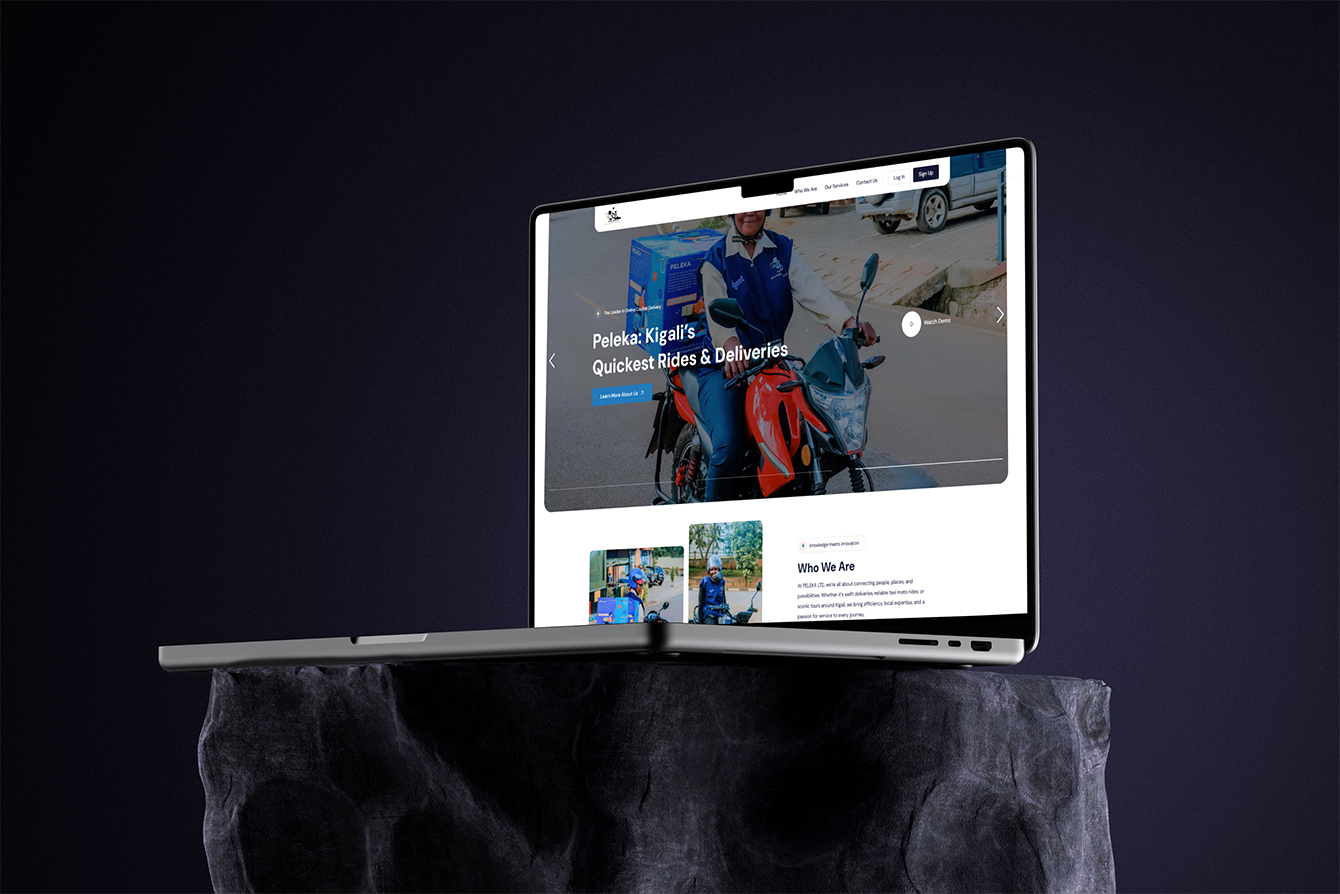
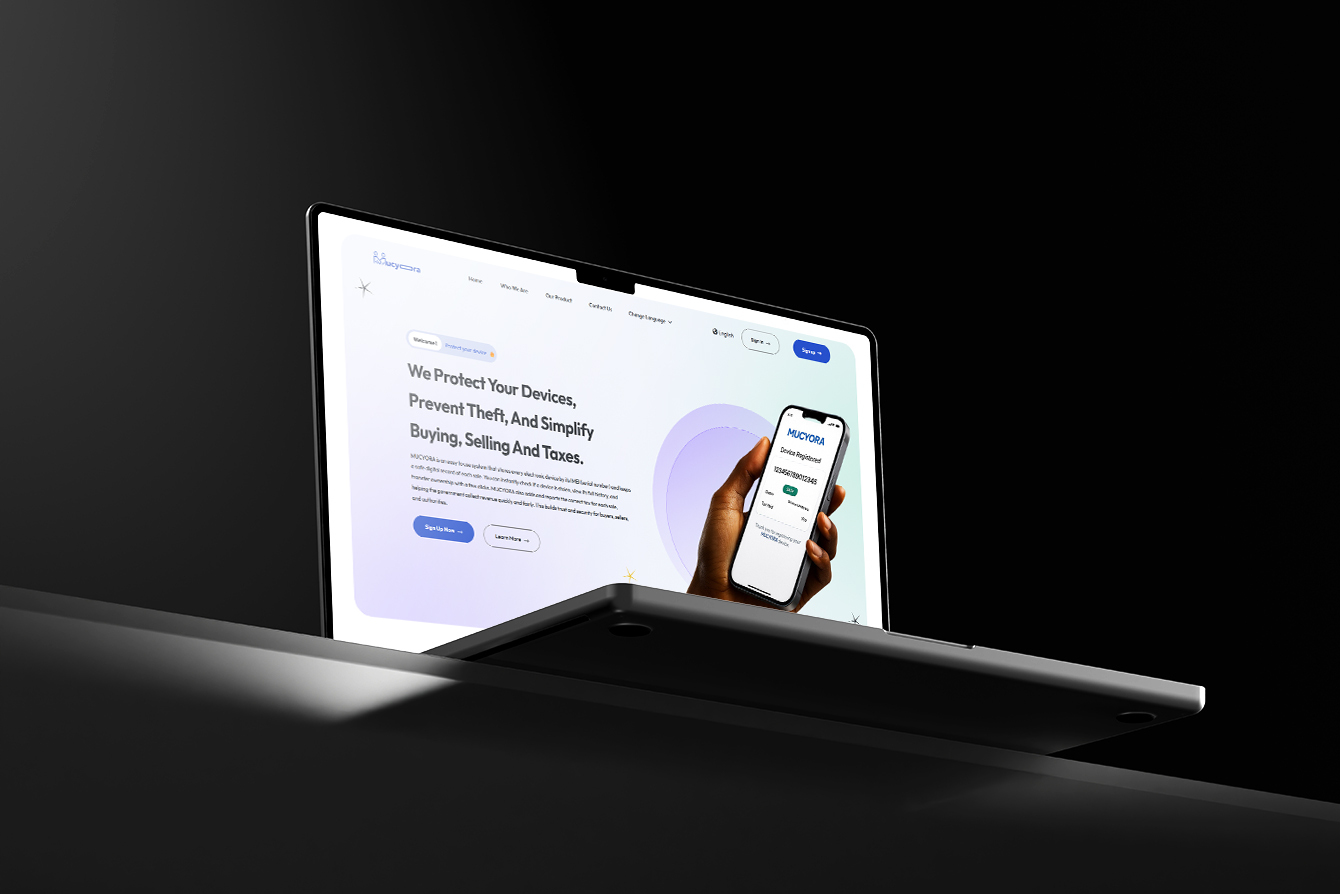
New changes

diff --git a/templates/work/show.html b/templates/work/show.html
@@ -139,7 +139,7 @@
                                     </div>
                                 </div>
                             </div>
-                            <div class="author-area mt-50 bord-thin-bottom">
+                            {% comment %} <div class="author-area mt-50 bord-thin-bottom">
                                 <h5 class="mb-4" style="font-size: 18px;">Client</h5>
                                 <div class="flex">
                                     <div class="author-img mr-30">
@@ -159,9 +159,9 @@
                                         </div>
                                     </div>
                                 </div>
-                            </div>
+                            </div> {% endcomment %}
                         </div>
-                        <div class="comments-from mt-80 md-mb80">
+                        {% comment %} <div class="comments-from mt-80 md-mb80">
                             <div class="mb-60">
                                 <h3>Leave a comment</h3>
                             </div>
@@ -202,10 +202,10 @@
         
                                 </div>
                             </form>
-                        </div>
+                        </div> {% endcomment %}
                     </div>
                 </div>
-                <div class="col-lg-4">
+                {% comment %} <div class="col-lg-4">
                     <div class="sidebar">
                         <div class="search-box">
                             <input type="text" name="search-post" placeholder="Search">
@@ -261,12 +261,12 @@
                             {% endfor %}
                         </div>
                     </div>
-                </div>
+                </div> {% endcomment %}
             </div>
         </div>
     </section>
 
-    <div class="blog-mp section-padding">
+    {% comment %} <div class="blog-mp section-padding">
         <div class="container">
             <div class="row xlg-marg">
                 {% for blog in recentBlog %}
@@ -305,7 +305,7 @@
                 {% endfor %}
             </div>
         </div>
-    </div>
+    </div> {% endcomment %}
 
     <script>
         document.addEventListener('DOMContentLoaded', function() {
